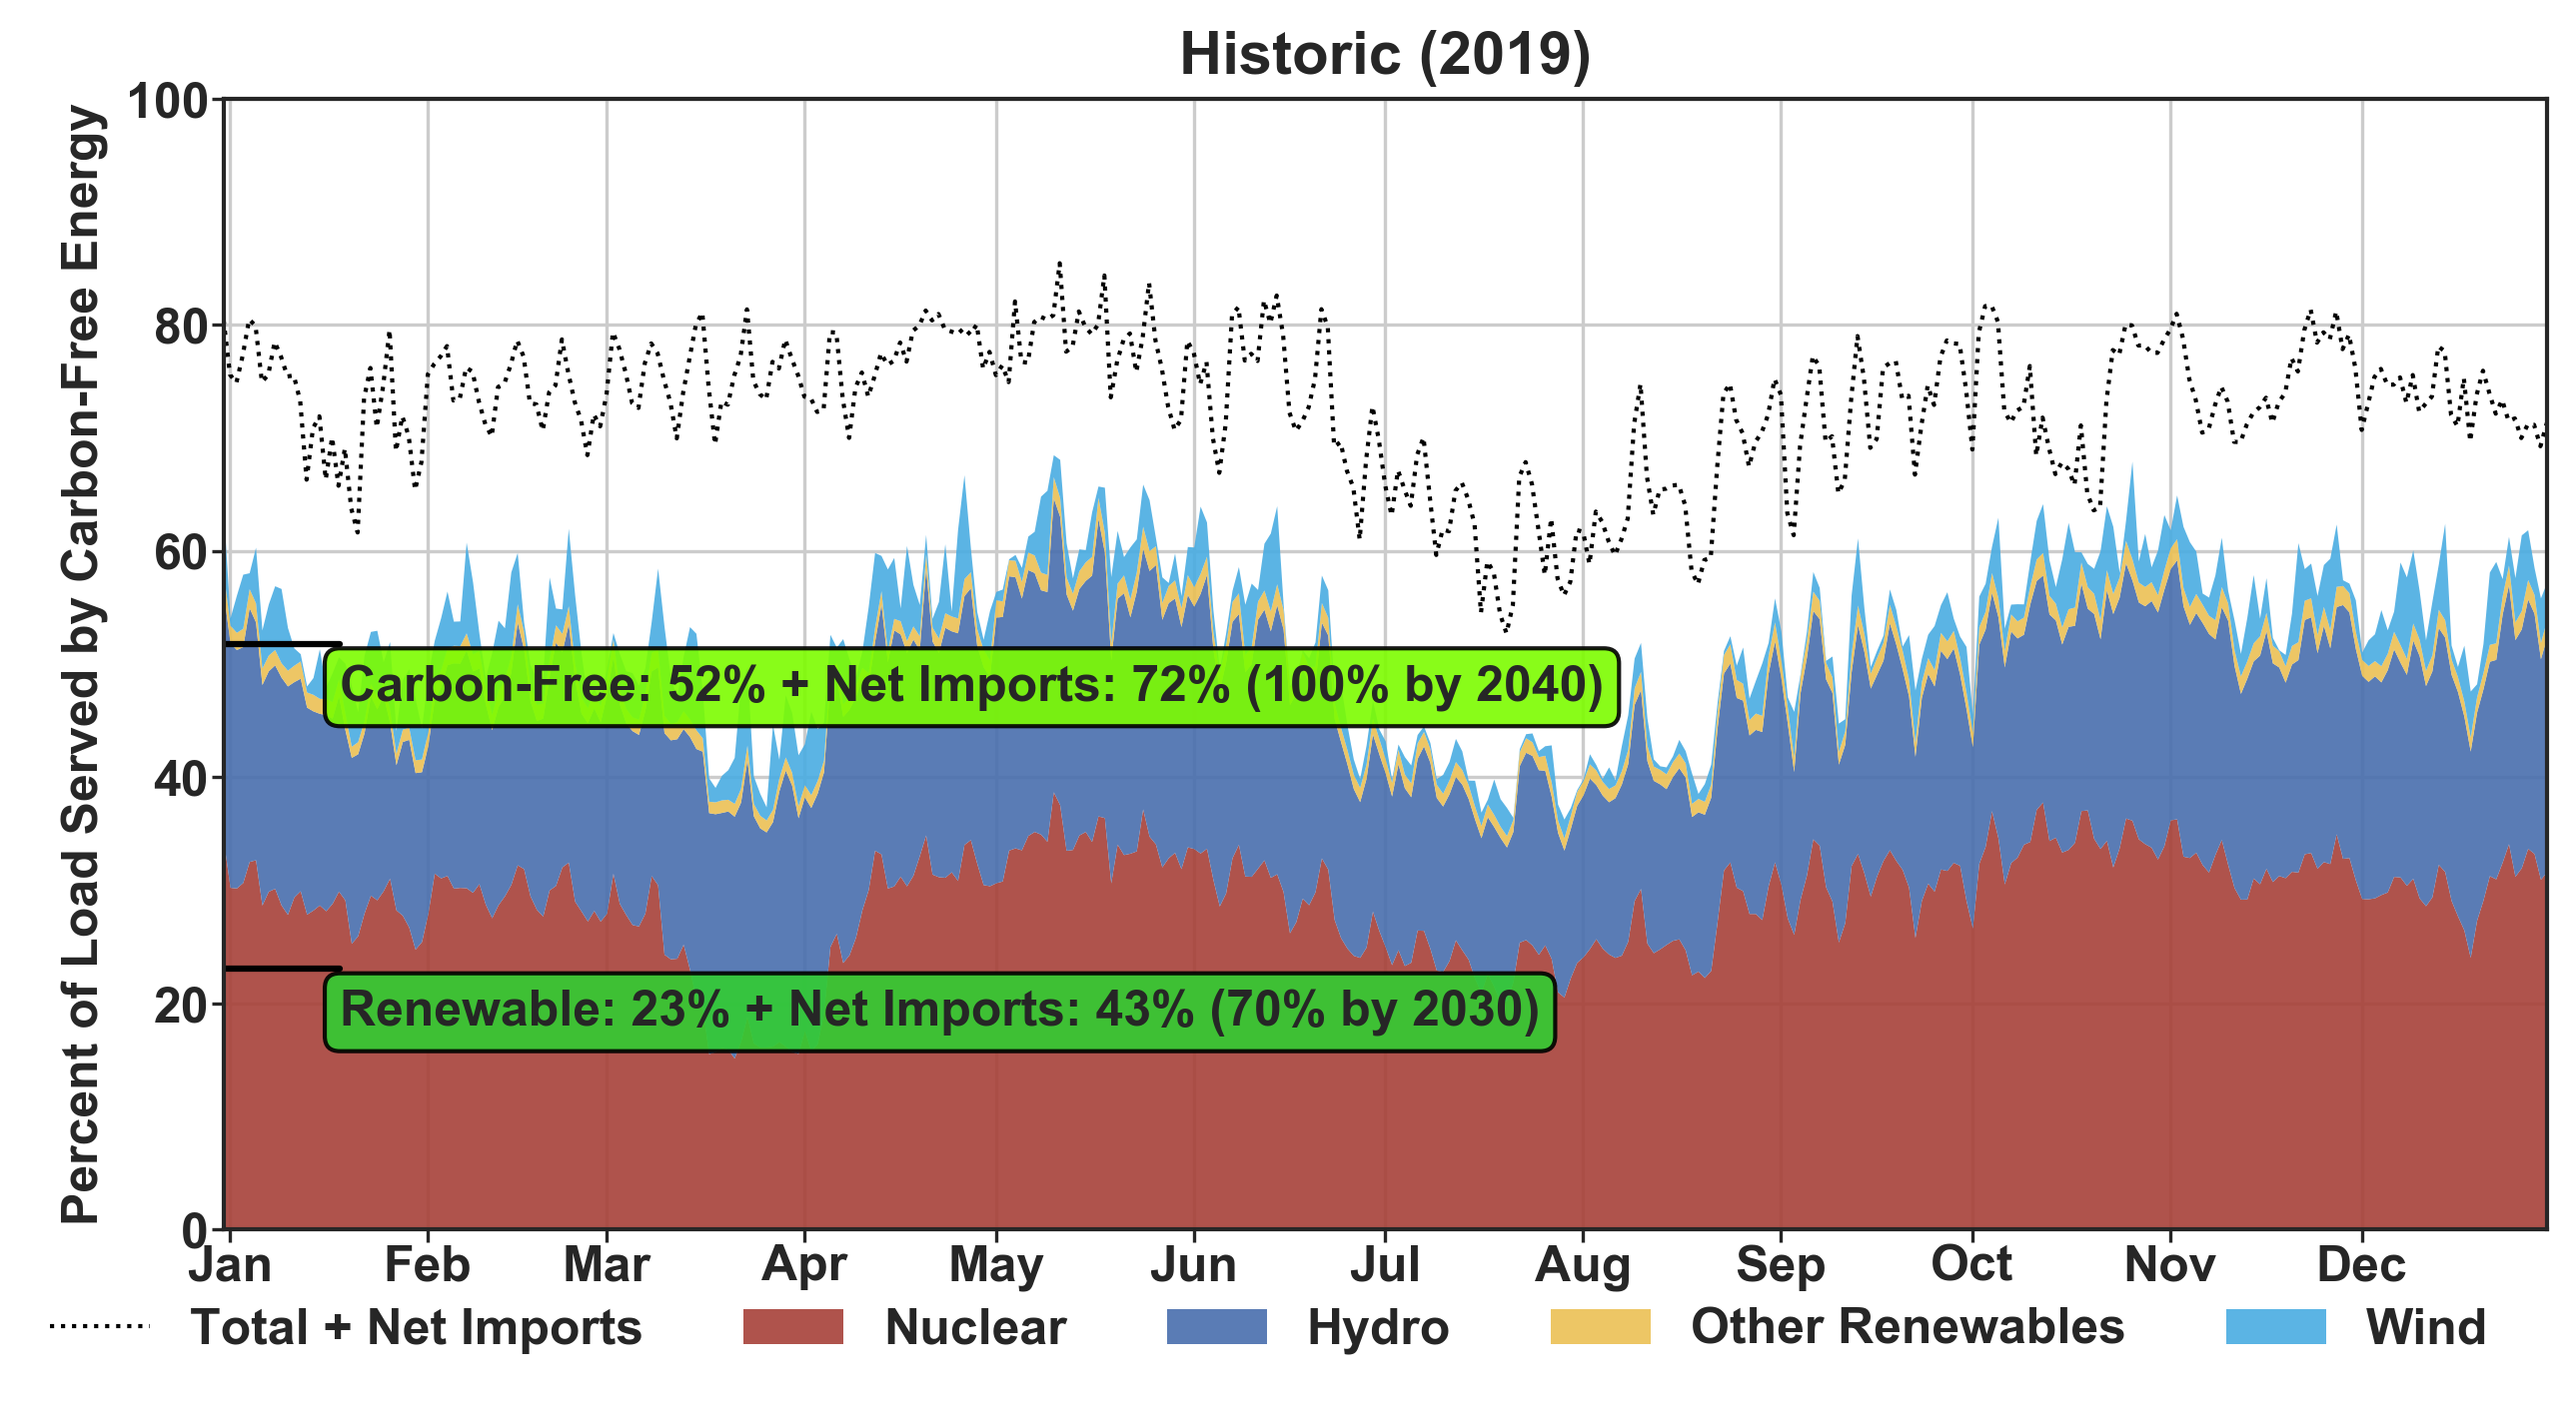
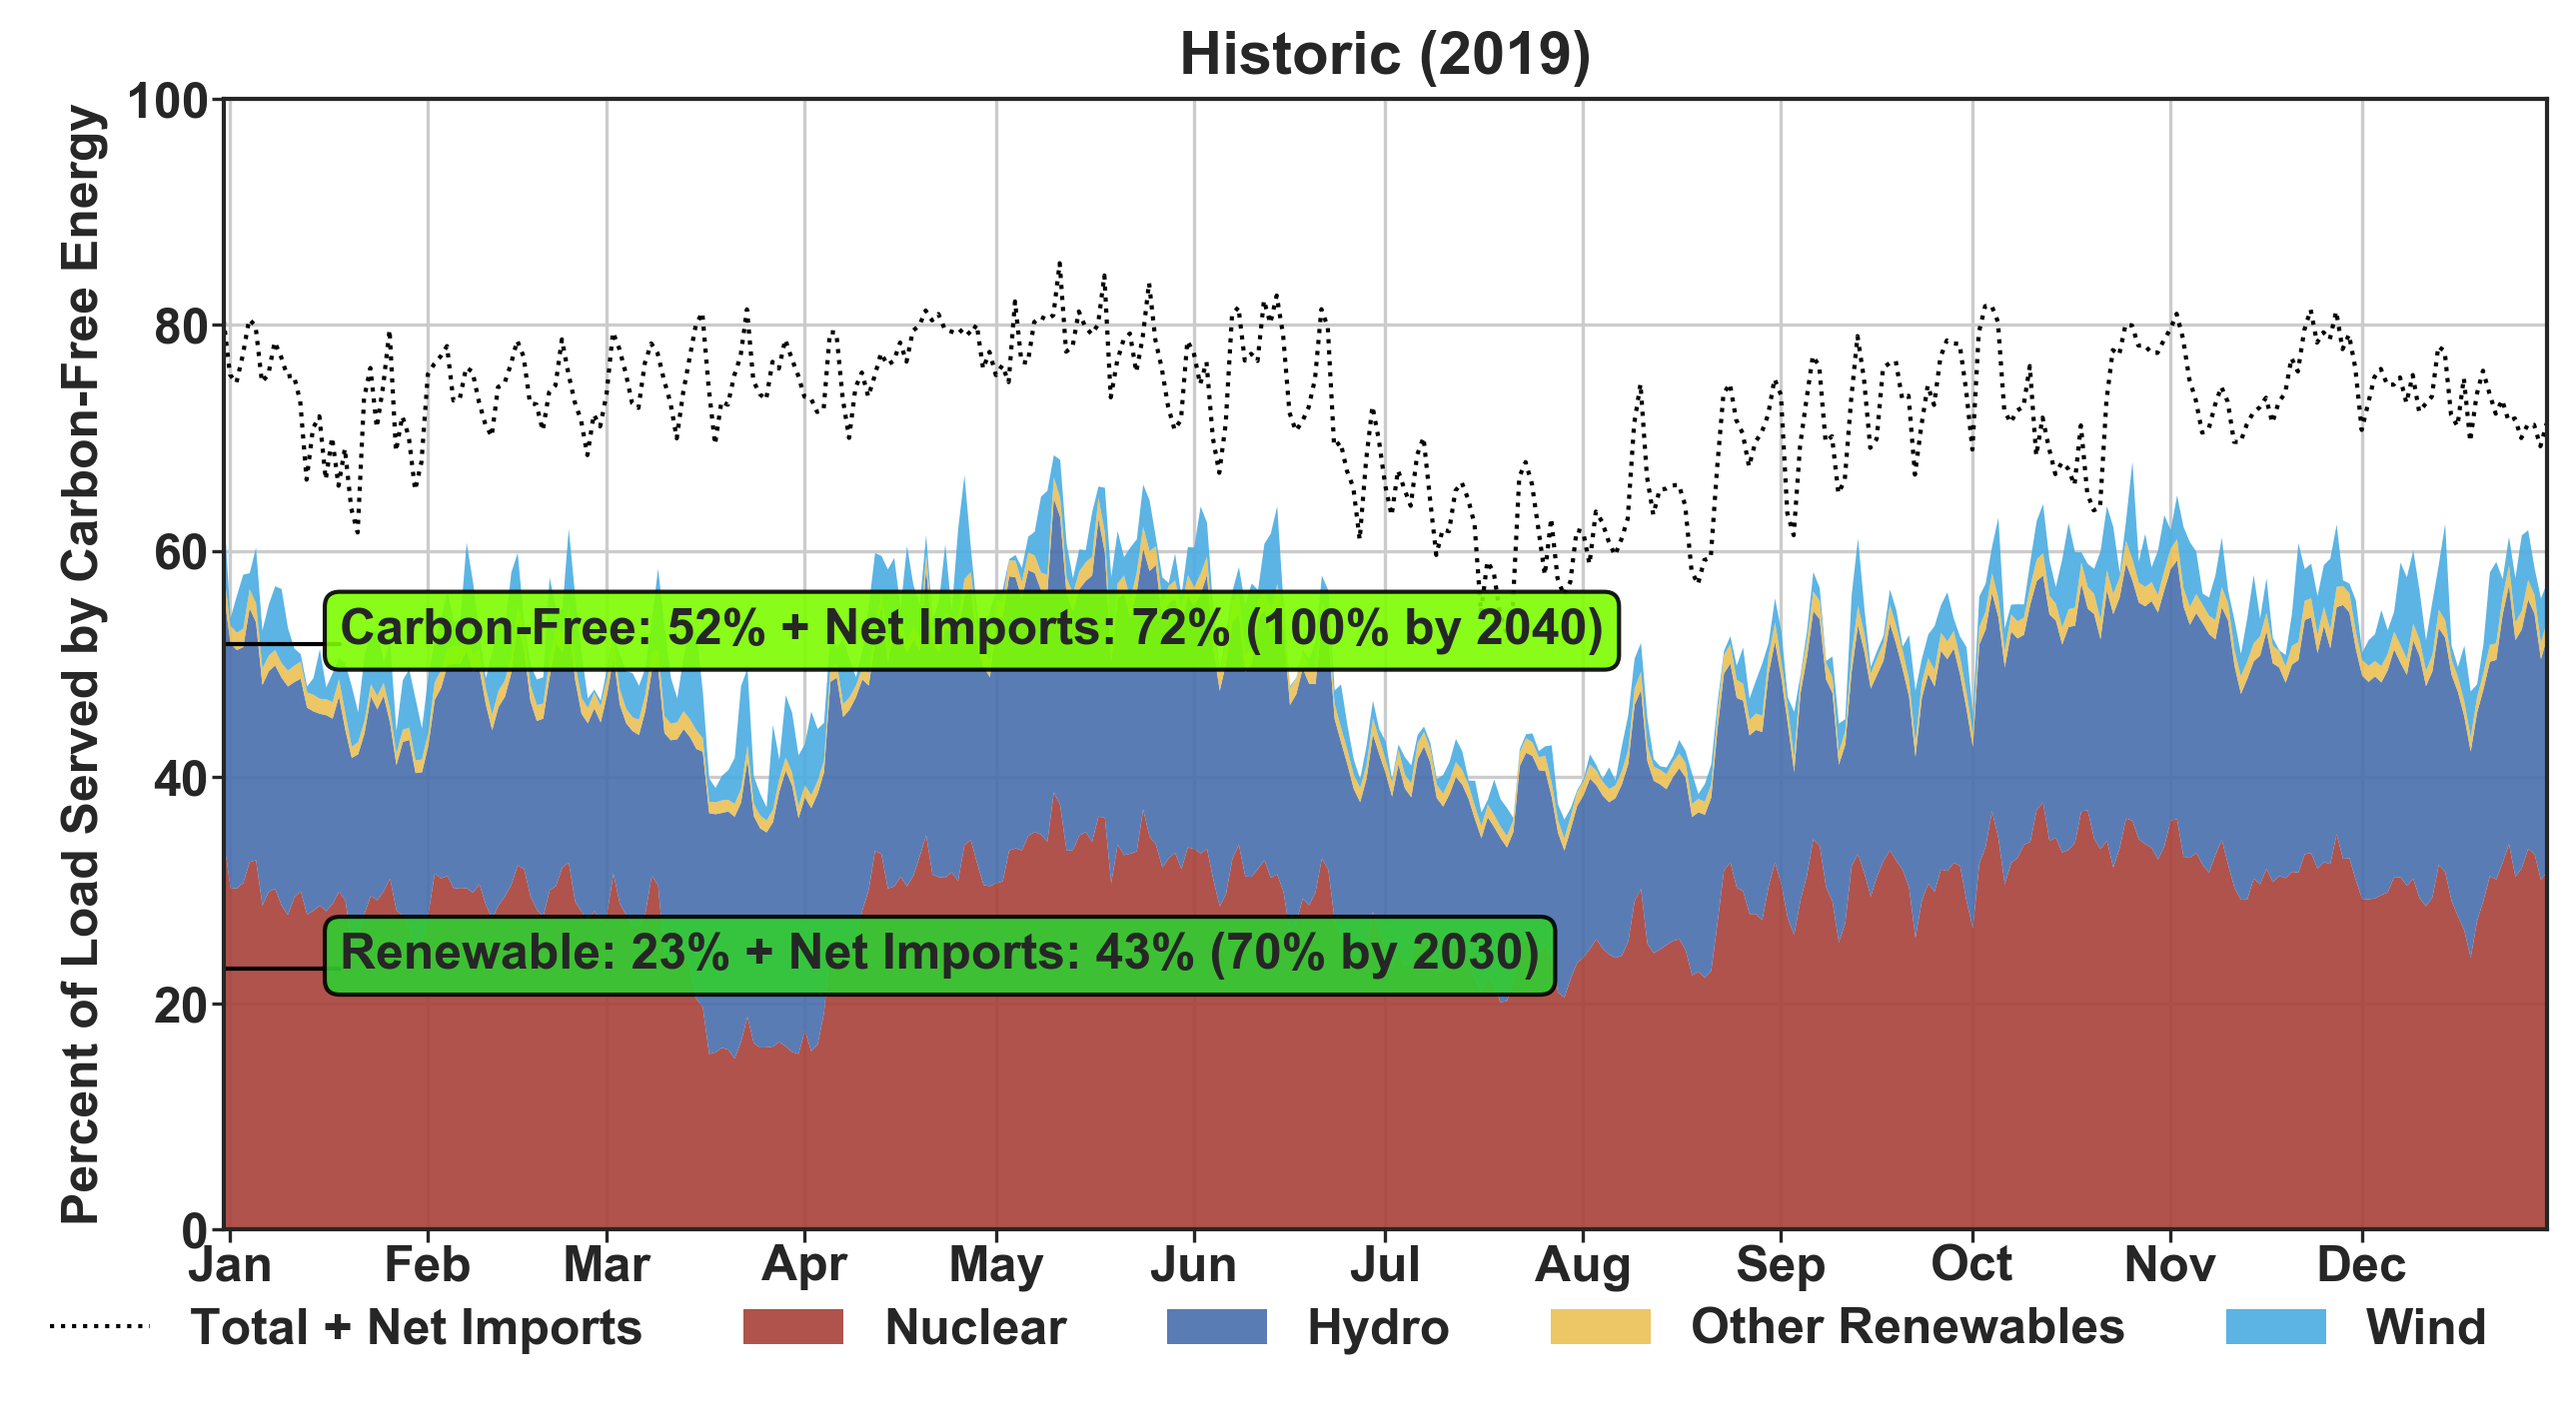
format graph better

Changed region(s): [[0.1241, 0.3976, 0.6517, 0.5199], [0.1241, 0.6422, 0.6206, 0.7646]]

diff --git a/nyisovis.py b/nyisovis.py
@@ -64,7 +64,7 @@ class NYISOVis:
         #Axis
         plt.xlabel(''); plt.ylabel('Energy [GWh]')
         plt.xlim(df.index[0], df.index[-1])
-        #plt.ylim(0,900)
+        plt.ylim(0,900)
         if f!='M':
             locator = mdates.MonthLocator()
             ax.xaxis.set_major_locator(locator)
@@ -130,9 +130,8 @@ class NYISOVis:
         for t,l,c,h in zip(data, averages,colors,h_distances):
             avg = fuel_mix[t].sum(axis='index').sum() / load.sum(axis='index') * 100
             avg_imp = fuel_mix[t+['Net Imports']].sum(axis='index').sum() / load.sum(axis='index') * 100
-            plt.axhline(y=avg, xmax=h, color='k', linestyle='solid', lw=1.5)
-            vert_disp = 0.05
-            plt.text(h, avg/100-vert_disp, l.format(avg, avg_imp), 
+            plt.axhline(y=avg, xmax=h, color='k', linestyle='solid', lw=1)
+            plt.text(h, avg/100, l.format(avg, avg_imp), 
                      bbox=dict(boxstyle='round',ec='black',fc=c, alpha=0.9),
                      transform=ax.transAxes)
         #Legend
@@ -162,10 +161,10 @@ class NYISOVis:
     def fig_carbon_free_year(year='2019', out_dir = pl.Path(c_dir,'visualizations')):
         stats = NYISOStat.table_annual_energy(year=year)
         df = stats[f'Historic ({year}) [% of Load]'].drop(index=['Total Carbon-Free Generation',
-                                                         'Total Generation',
-                                                         'Net Imports',
-                                                         'Total Generation + Net Imports',
-                                                         'Load'])
+                                                                 'Total Generation',
+                                                                 'Net Imports',
+                                                                 'Total Generation + Net Imports',
+                                                                 'Load'])
         df = df.to_frame().T
         #Plot
         fig, ax = plt.subplots(figsize=(4,8), dpi=300)
